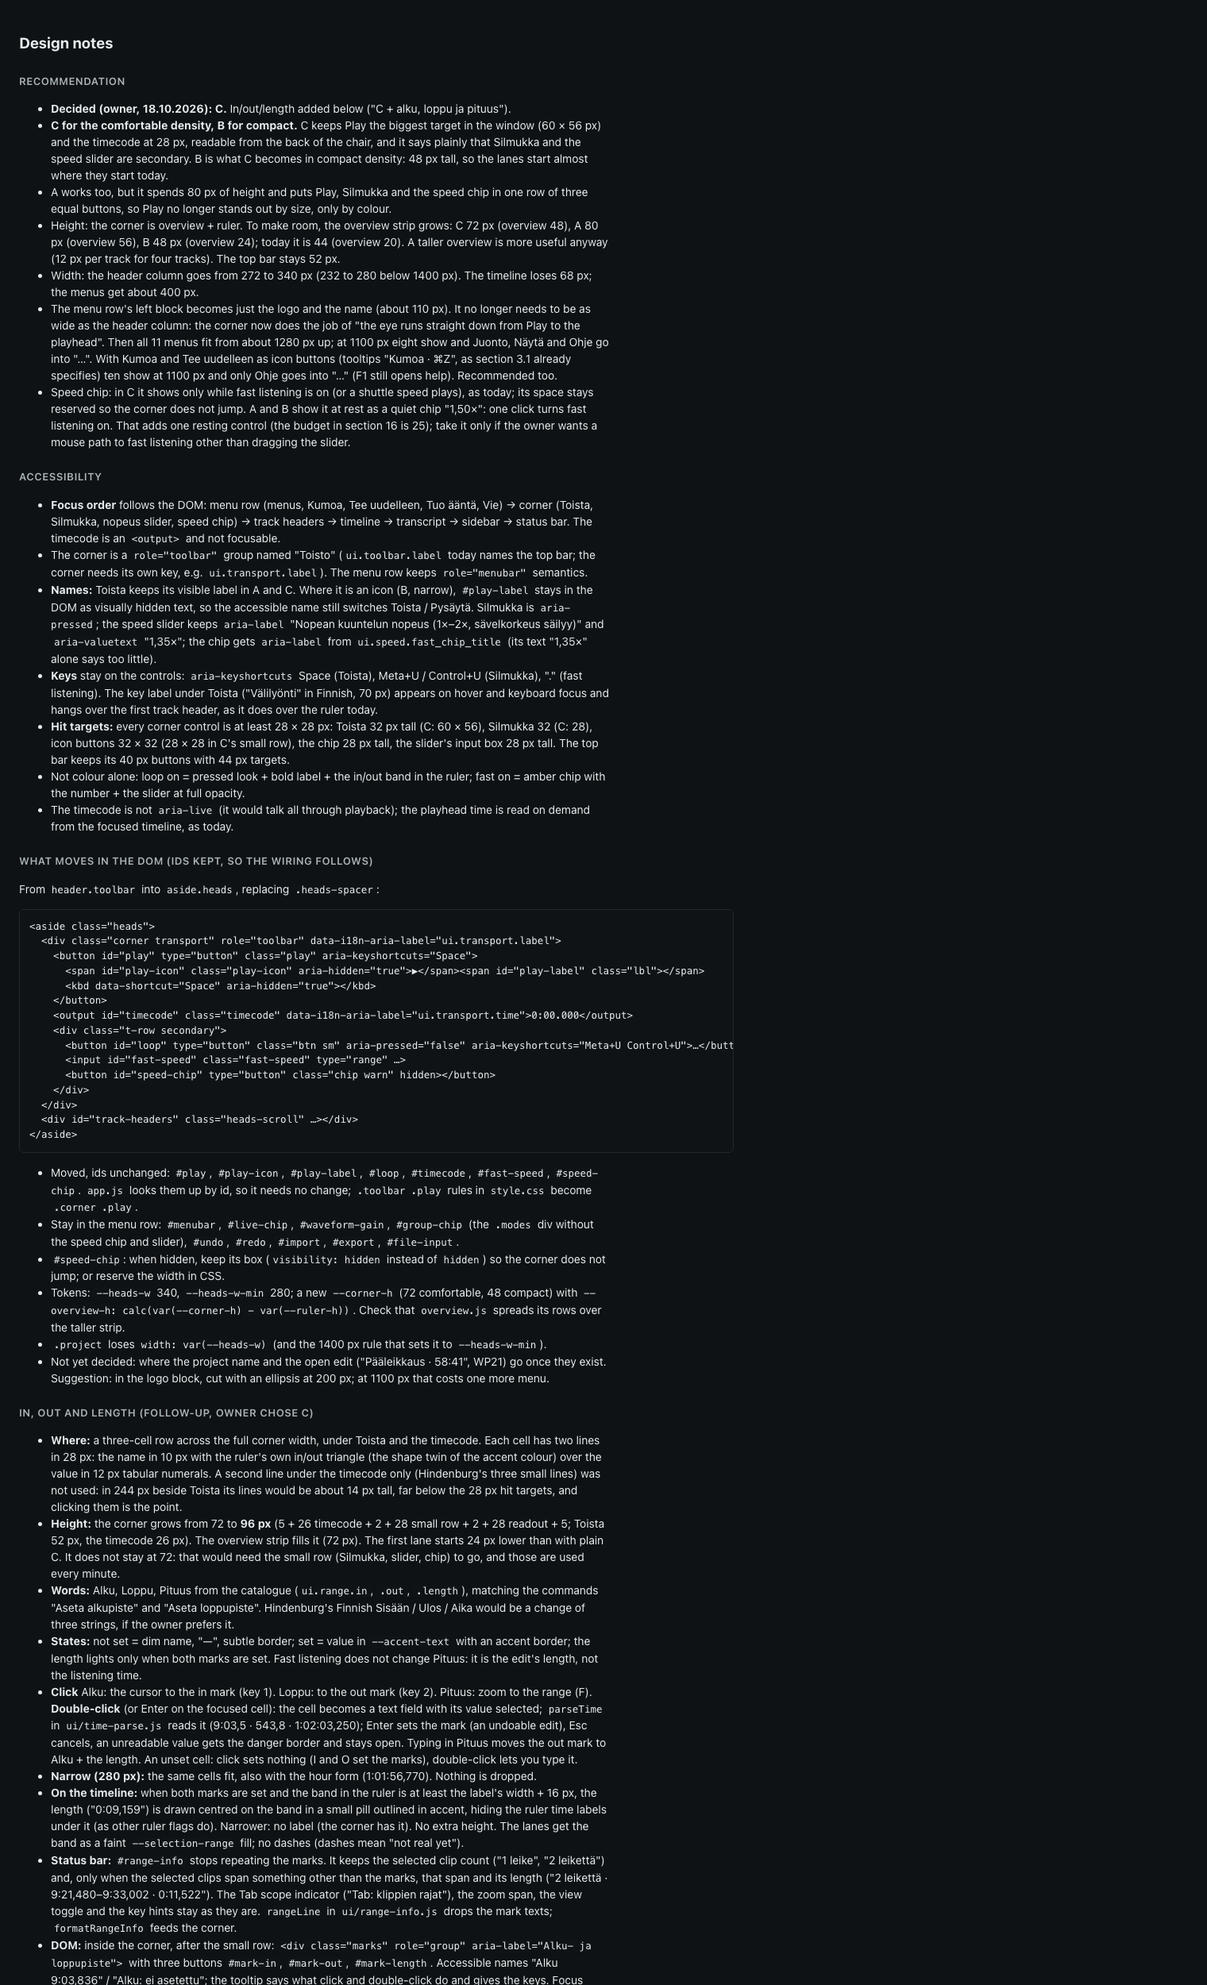
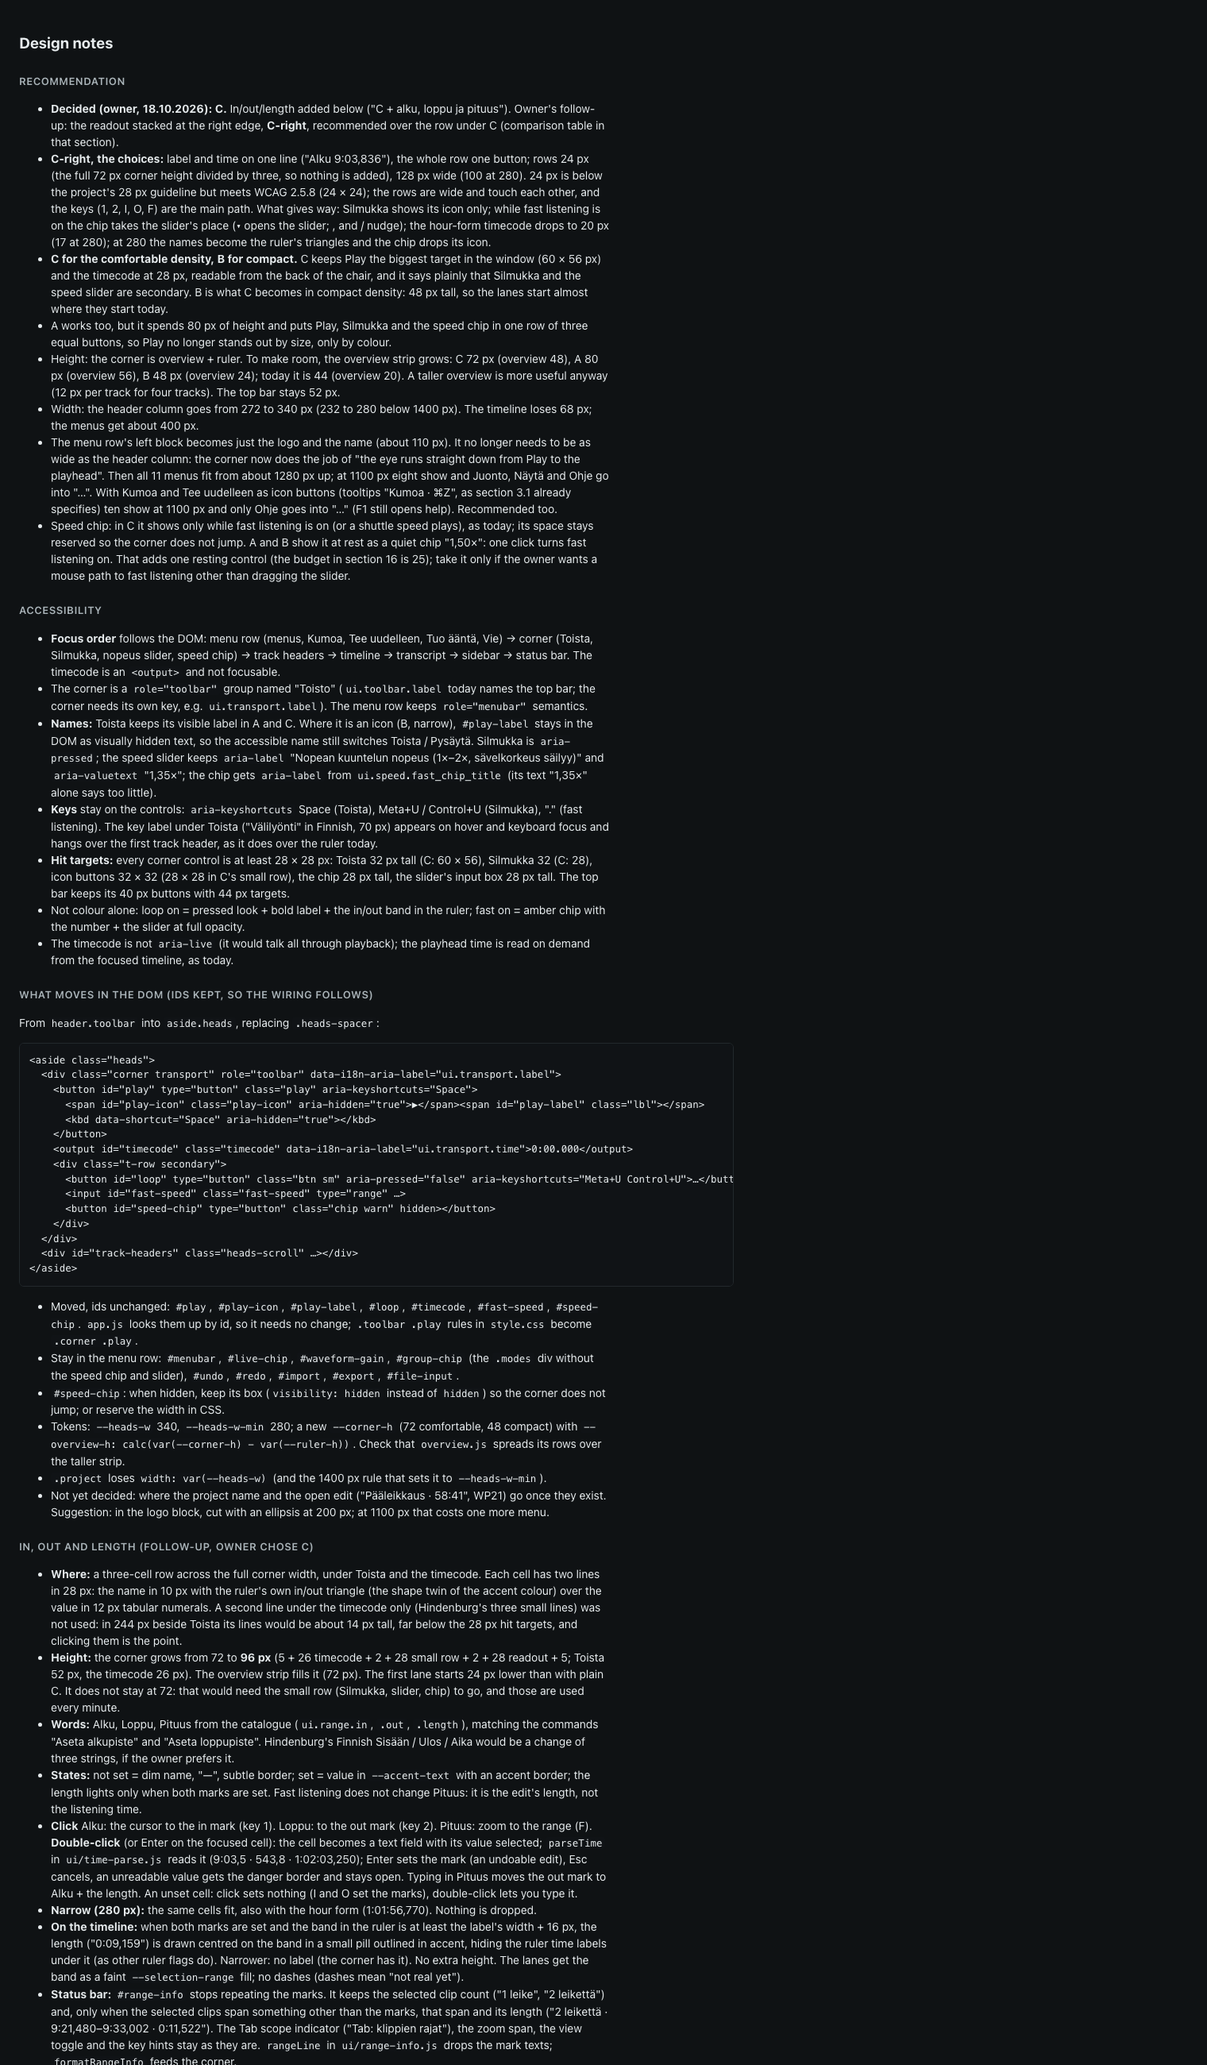
Mockups: C-right, in/out/length stacked at the corner's right edge (72 px)
Owner asked to keep the corner at 72 px: Alku, Loppu and Pituus stack in a
128 px column (100 px at 280) at the right edge, one 24 px row each, label and
time on one line, the whole row clickable, double-click to type. Silmukka goes
icon-only, the speed chip takes the slider's place while fast listening is on,
and the hour-form timecode shrinks. Same states as C, both window widths, and a
comparison table against the 96 px row-under layout; C-right recommended.

Claude-Session: https://claude.ai/code/session_01QmLRMKgETsKBVfe8fKUHaZ

Changed region(s): [[0.0309, 0.0, 0.5257, 1.0]]

diff --git a/docs/design/transport-corner/index.html b/docs/design/transport-corner/index.html
@@ -1067,6 +1067,39 @@ table.fit td.few { color: var(--warn-text); }
 .edit-tip { position: absolute; z-index: 6; top: calc(100% + 6px); left: 0; padding: 3px 8px; border-radius: var(--radius-sm); background: var(--surface-raised); box-shadow: var(--shadow-raised); font-size: var(--text-xs); color: var(--text-secondary); white-space: nowrap; }
 .statusbar .sel { color: var(--text); }
 
+/* -- C-right: in/out/length stacked at the corner's right edge, corner stays 72 px -- */
+.corner.CR { --rc-w: 128px; display: grid; grid-template-columns: auto minmax(0, 1fr) var(--rc-w); grid-template-rows: 1fr 1fr; column-gap: 10px; row-gap: 0; padding: 0 0 0 var(--space-5); align-items: center; }
+.corner.CR.narrow .chip.split .main svg { display: none; }
+.corner.CR.narrow { --rc-w: 100px; column-gap: 8px; padding-left: 10px; }
+.corner.CR .play.big { grid-row: 1 / 3; width: 56px; height: 56px; }
+.corner.CR.narrow .play.big { width: 50px; height: 52px; }
+.corner.CR .timecode { --tc: 26px; align-self: end; padding-bottom: 3px; overflow: hidden; }
+.corner.CR .timecode.hour { --tc: 20px; }
+.corner.CR.narrow .timecode { --tc: 20px; }
+.corner.CR.narrow .timecode.hour { --tc: 17px; }
+.corner.CR .t-row { grid-column: 2; align-self: start; padding-top: 3px; gap: var(--space-2); }
+.corner.CR .fast-speed { min-width: 40px; }
+.rcol { position: relative; grid-column: 3; grid-row: 1 / 3; align-self: stretch; display: grid; grid-template-rows: repeat(3, 1fr); border-left: 1px solid var(--border-subtle); background: var(--surface-sunken); }
+.mrow { position: relative; display: flex; align-items: center; justify-content: space-between; gap: 6px; min-width: 0; padding: 0 8px 0 9px; border: 0; border-bottom: 1px solid var(--border-subtle); background: transparent; color: var(--text-tertiary); font-size: 12px; font-variant-numeric: tabular-nums; white-space: nowrap; cursor: pointer; text-align: left; }
+.mrow:last-of-type { border-bottom: 0; }
+.mrow .k { display: inline-flex; align-items: center; gap: 4px; font-size: 11px; }
+.mrow .v { font-weight: var(--weight-strong); overflow: hidden; text-overflow: ellipsis; }
+.mrow svg.g { width: 7px; height: 9px; }
+.mrow svg.g[viewBox^="0 0 14"] { width: 10px; }
+.mrow.set { box-shadow: inset 2px 0 0 var(--accent); }
+.mrow.set .k { color: var(--text-secondary); }
+.mrow.set .v { color: var(--accent-text); }
+.mrow:hover { background: var(--surface-hover); }
+.mrow.editing { background: var(--input-bg); outline: var(--focus-width) solid var(--focus-ring); outline-offset: -2px; cursor: text; }
+.mrow input { width: 100%; min-width: 0; padding: 0; text-align: right; background: transparent; border: 0; outline: 0; color: var(--text); font: var(--weight-strong) var(--text-sm) / 1 var(--font-ui); font-variant-numeric: tabular-nums; }
+.corner.narrow .mrow { padding: 0 4px 0 6px; gap: 3px; }
+.rcol .edit-tip { left: auto; right: 0; }
+table.cmp { border-collapse: collapse; font-size: var(--text-sm); margin-top: 8px; max-width: 1100px; }
+table.cmp th, table.cmp td { border: 1px solid var(--border-subtle); padding: 6px 10px; text-align: left; vertical-align: top; }
+table.cmp th { color: var(--text-secondary); font-weight: var(--weight-strong); }
+table.cmp td.good { color: var(--ok-text); }
+table.cmp td.bad { color: var(--warn-text); }
+
 /* -- ruler + overview (the timeline's top) ------------------------------------- */
 .tl-top { position: relative; background: var(--ruler-bg); }
 .tl-top svg, .lanes svg { display: block; }
@@ -1130,12 +1163,13 @@ body[data-only] h2 { margin-top: 0; border-top: 0; }
   <header>
     <h1>Kuljetin kulmaan · transport in the corner</h1>
     <p class="lede">Mockups (owner, 18.10.2026). Toista, Silmukka, the timecode and fast listening leave the menu row and sit in the corner above the track headers, left of the ruler. The corner is 340 px wide (280 px in narrow windows). Undo, Redo, Import and Export stay top right, so the 11 menus get the width back. Dark theme, real tokens, Finnish labels.</p>
-    <nav><a href="#A">A · two rows</a><a href="#B">B · one row</a><a href="#C">C · big play</a><a href="#marks">C + in/out/length</a><a href="#menus">Menu row</a><a href="#notes">Design notes</a></nav>
+    <nav><a href="#A">A · two rows</a><a href="#B">B · one row</a><a href="#C">C · big play</a><a href="#marks">C + in/out/length</a><a href="#cright">C-right</a><a href="#menus">Menu row</a><a href="#notes">Design notes</a></nav>
   </header>
   <section id="A" data-sec="A"></section>
   <section id="B" data-sec="B"></section>
   <section id="C" data-sec="C"></section>
   <section id="marks" data-sec="marks"></section>
+  <section id="cright" data-sec="cright"></section>
   <section id="menus" data-sec="menus">
     <h2>Menu row: all 11 menus</h2>
     <p class="sub">The menus that fit are measured live in this page with the app's own rule (<code>fitMenus</code> in <code>ui/menu-model.js</code>: the menus in order, then "…" holding the rest).</p>
@@ -1155,7 +1189,8 @@ body[data-only] h2 { margin-top: 0; border-top: 0; }
     <h2>Design notes</h2>
     <h3>Recommendation</h3>
     <ul>
-      <li><b>Decided (owner, 18.10.2026): C.</b> In/out/length added below ("C + alku, loppu ja pituus").</li>
+      <li><b>Decided (owner, 18.10.2026): C.</b> In/out/length added below ("C + alku, loppu ja pituus"). Owner's follow-up: the readout stacked at the right edge, <b>C-right</b>, recommended over the row under C (comparison table in that section).</li>
+      <li><b>C-right, the choices:</b> label and time on one line ("Alku 9:03,836"), the whole row one button; rows 24 px (the full 72 px corner height divided by three, so nothing is added), 128 px wide (100 at 280). 24 px is below the project's 28 px guideline but meets WCAG 2.5.8 (24 × 24); the rows are wide and touch each other, and the keys (1, 2, I, O, F) are the main path. What gives way: Silmukka shows its icon only; while fast listening is on the chip takes the slider's place (▾ opens the slider; , and / nudge); the hour-form timecode drops to 20 px (17 at 280); at 280 the names become the ruler's triangles and the chip drops its icon.</li>
       <li><b>C for the comfortable density, B for compact.</b> C keeps Play the biggest target in the window (60 × 56 px) and the timecode at 28 px, readable from the back of the chair, and it says plainly that Silmukka and the speed slider are secondary. B is what C becomes in compact density: 48 px tall, so the lanes start almost where they start today.</li>
       <li>A works too, but it spends 80 px of height and puts Play, Silmukka and the speed chip in one row of three equal buttons, so Play no longer stands out by size, only by colour.</li>
       <li>Height: the corner is overview + ruler. To make room, the overview strip grows: C 72 px (overview 48), A 80 px (overview 56), B 48 px (overview 24); today it is 44 (overview 20). A taller overview is more useful anyway (12 px per track for four tracks). The top bar stays 52 px.</li>
@@ -1212,7 +1247,7 @@ body[data-only] h2 { margin-top: 0; border-top: 0; }
       <li><b>B (compact density):</b> B's single row has no room. The readout becomes a second row of the same cells at 22 px, with the 24 px target that compact uses (<code>--target-min</code> 24): B goes from 48 to 72 px. Or, if compact must stay 48, the readout is left out and the marks show only on the ruler band and in the status bar, as today.</li>
     </ul>
     <h3>Screenshots</h3>
-    <p><code>docs/design/transport-corner/variant-a.png</code>, <code>variant-b.png</code>, <code>variant-c.png</code>, <code>variant-c-marks.png</code>, <code>menu-row.png</code>, <code>notes.png</code> (headless Chrome, 1520 px wide).</p>
+    <p><code>docs/design/transport-corner/variant-a.png</code>, <code>variant-b.png</code>, <code>variant-c.png</code>, <code>variant-c-marks.png</code>, <code>variant-c-right.png</code>,<code>menu-row.png</code>, <code>notes.png</code> (headless Chrome, 1520 px wide).</p>
   </section>
 </main>
 
@@ -1246,6 +1281,7 @@ const VARIANTS = {
   A: { title: "A · Kaksi riviä", cornerH: 80, sum: "Row 1: Toista, Silmukka and the speed chip. Row 2: the timecode at 28 px and the speed slider. Corner 80 px tall (overview 56). Found here: the key label under Toista (\"Välilyönti\") covers the timecode (see Näppäimistöfokus), so in A the key would have to live in the tooltip only." },
   B: { title: "B · Yksi tiheä rivi", cornerH: 48, sum: "One row: Toista as an icon, the timecode at 22 px, Silmukka as an icon and a split speed chip whose ▾ opens the slider. Corner 48 px tall (overview 24), almost today's 44. Found here: at 280 px with an hour-long timecode the chip runs past the corner into the ruler (see Kapea), so B at 280 px needs the chip without its icon or a smaller timecode." },
   CM: { title: "C + alku, loppu ja pituus", cornerH: 96 },
+  CR: { title: "C-right", cornerH: 72 },
   C: { title: "C · Iso Toista ja aikakoodi", cornerH: 72, rec: true, sum: "Toista large on the left (60 × 56), the timecode at 28 px beside it, and under it a small row: Silmukka, the speed slider and the chip (only while active, space kept). Corner 72 px tall (overview 48)." },
 };
 
@@ -1263,7 +1299,7 @@ function playBtn(s, { iconOnly = false, big = false } = {}) {
 function loopBtn(s, { iconOnly = false, small = false } = {}) {
   return `<button type="button" data-id="loop" class="btn ${small ? "sm" : ""} ${iconOnly ? "iconly" : ""}" aria-pressed="${!!s.loop}" aria-keyshortcuts="Meta+U Control+U" title="${s.loop ? "Silmukka päällä" : "Silmukka"} · ⌘U">${ICON.loop}<span class="${iconOnly ? "visually-hidden" : ""}">Silmukka</span></button>`;
 }
-const timecode = (s) => `<output data-id="timecode" class="timecode" aria-label="Toistokohdan sijainti">${tc(s.time)}</output>`;
+const timecode = (s) => `<output data-id="timecode" class="timecode ${s.time[0].split(":").length > 2 ? "hour" : ""}" aria-label="Toistokohdan sijainti">${tc(s.time)}</output>`;
 function slider(s, width) {
   const v = s.fast ? s.speed : 1.5;
   return `<input data-id="fast-speed" class="fast-speed ${s.fast ? "on" : ""}" type="range" min="1" max="2" step="0.05" value="${v}" ${width ? `style="flex:none;width:${width}px"` : ""} aria-label="Nopean kuuntelun nopeus (1×–2×, sävelkorkeus säilyy)" aria-valuetext="${num(v)}×" title="Nopean kuuntelun nopeus (1×–2×, sävelkorkeus säilyy)" />`;
@@ -1292,6 +1328,9 @@ function corner(v, s, width) {
   if (v === "B") return `<div class="corner B ${n ? "narrow" : ""}" ${label} ${st}>
       <div class="t-row">${playBtn(s, { iconOnly: true })}${timecode(s)}${loopBtn(s, { iconOnly: true })}${chip(s, { rest: "quiet", split: true })}</div>
       ${s.fast && !n ? `<div class="pop" role="dialog" aria-label="Nopea kuuntelu"><b>Nopea kuuntelu</b><div class="t-row">${slider(s)}<span class="timecode" style="--tc:13px">${num(s.speed)}×</span></div><div class="meta">, hitaammin · / nopeammin · Alt+0 normaali</div></div>` : ""}</div>`;
+  if (v === "CR") return `<div class="corner C CR ${n ? "narrow" : ""}" ${label} ${st}>
+      ${playBtn(s, { big: true })}${timecode(s)}
+      <div class="t-row">${loopBtn(s, { small: true, iconOnly: true })}${s.fast ? chip(s, { split: true }) : slider(s)}</div>${rcol(s)}</div>`;
   const marks = v === "CM";
   return `<div class="corner C ${marks ? "with-marks" : ""} ${n ? "narrow" : ""}" ${label} ${st}>
       ${playBtn(s, { big: true })}${timecode(s)}
@@ -1304,6 +1343,20 @@ const GLYPH = {
   out: '<svg class="g" viewBox="0 0 10 12" aria-hidden="true"><path d="M9 1H2l7 8z" fill="currentColor"/><path d="M9 1v10" stroke="currentColor" stroke-width="1.5"/></svg>',
   len: '<svg class="g" viewBox="0 0 14 12" aria-hidden="true"><path d="M1 6h12M4 3 1 6l3 3M10 3l3 3-3 3" fill="none" stroke="currentColor" stroke-width="1.4" stroke-linecap="round" stroke-linejoin="round"/></svg>',
 };
+// C-right: the same three values stacked in a column at the corner's right edge.
+function rcol(s) {
+  const len = s.inT && s.outT ? s.lenT : null;
+  const row = (id, word, value, click) => {
+    const set = value != null;
+    const k = `<span class="k">${GLYPH[id]}${s.narrow ? `<span class="visually-hidden">${word}</span>` : word}</span>`;
+    if (s.edit === id) return `<span class="mrow editing" data-id="mark-${id}">${k}<input type="text" value="${value}" aria-label="${word}, kirjoita aika" spellcheck="false" /></span>`;
+    const tip = set ? `${word} ${value} · napsauta: ${click} · kaksoisnapsauta: kirjoita aika` : `${word}: ei asetettu · kaksoisnapsauta: kirjoita aika`;
+    return `<button type="button" data-id="mark-${id}" class="mrow ${set ? "set" : ""}" aria-label="${set ? `${word} ${value}` : `${word}: ei asetettu`}" title="${tip}">${k}<span class="v">${set ? value : "—"}</span></button>`;
+  };
+  return `<div class="rcol" role="group" aria-label="Alku- ja loppupiste">
+    ${row("in", "Alku", s.inT, "siirry alkuun (1)")}${row("out", "Loppu", s.outT, "siirry loppuun (2)")}${row("len", "Pituus", len, "zoomaa väliin (F)")}
+    ${s.edit ? `<span class="edit-tip">Enter asettaa · Esc peruu · esim. 9:03,5 tai 543,8</span>` : ""}</div>`;
+}
 function readout(s) {
   const len = s.inT && s.outT ? s.lenT : null;
   const cell = (id, word, glyph, value, click, typeHint) => {
@@ -1488,7 +1541,7 @@ function tile(v, s) {
   const width = s.narrow ? 280 : 340;
   const cornerH = VARIANTS[v].cornerH;
   let playX = 62, stubW = 150, opts = {};
-  if (v === "CM") {
+  if (v === "CM" || v === "CR") {
     // The stub shows about 19 s at 12 px/s, so the marks and the length pill are visible.
     stubW = 230;
     const base = s.base ?? 9 * 60 + 1, pps = 12, at = (sec) => (sec - base) * pps;
@@ -1503,7 +1556,7 @@ function tile(v, s) {
 
 // ---------- render ---------------------------------------------------------------------------
 for (const [v, d] of Object.entries(VARIANTS)) {
-  if (v === "CM") continue;
+  if (v === "CM" || v === "CR") continue;
   const sec = document.getElementById(v);
   sec.innerHTML = `<h2>${d.title} ${d.rec ? '<span class="tag rec">recommended</span>' : ""}</h2><p class="sub">${d.sum}</p>
     <h3>The window, 1440 px</h3><div class="scroll" data-fitbars>${windowFrame(v, STATES[0])}</div><p class="cap" data-report></p>
@@ -1529,6 +1582,31 @@ document.getElementById("marks").innerHTML = `<h2>C + alku, loppu ja pituus <spa
   <h3>The window, 1440 px: both marks set, one clip selected (the same span)</h3><div class="scroll" data-fitbars>${windowFrame("CM", { ...MSTATES[2], status: "1 leike" }, { start: 530, pps: 14 })}</div><p class="cap" data-report></p>
   <h3>States</h3><div class="tiles">${MSTATES.map((s) => tile("CM", s)).join("")}</div>
   <h3>The window, 1100 px (corner 280): range, fast listening on, a selection that differs from the marks; at this zoom the band is too narrow for the length label, so the ruler hides it (the corner still shows it)</h3><div class="scroll" data-fitbars>${windowFrame("CM", { ...MSTATES[3], narrow: true, status: "2 leikettä · 9:21,480–9:33,002 · 0:11,522" }, { W: 1100, headsW: 280, sideW: 280 })}</div><p class="cap" data-report></p>`;
+
+// C-right (owner, 18.10.2026): the readout stacked at the right edge; the corner stays 72 px.
+const RSTATES = [
+  MSTATES[0], MSTATES[1], MSTATES[2], MSTATES[3], MSTATES[4],
+  { ...MSTATES[5], title: "Kapea, 280 px", note: "names become the ruler's triangles (kept for screen readers)" },
+  { ...MSTATES[6], note: "hour form: the timecode drops to 17 px; the chip sits where the slider was" },
+];
+document.getElementById("cright").innerHTML = `<h2>C-right · alku, loppu ja pituus oikeassa reunassa <span class="tag rec">recommended</span></h2>
+  <p class="sub">The three values stacked in a column at the corner's right edge (128 px; 100 px at 280), in the space right of the timecode and the slider. One line per row, "Alku 9:03,836", the whole row clickable; click jumps (1, 2) or zooms (F), double-click types an exact time. The column runs the full corner height, so the rows are 24 px each and <b>the corner stays 72 px</b>. To make room, Silmukka becomes an icon button (name in tooltip and accessible name) and, while fast listening is on, the speed chip takes the slider's place (its ▾ opens the slider).</p>
+  <h3>The window, 1440 px: both marks set, one clip selected</h3><div class="scroll" data-fitbars>${windowFrame("CR", { ...MSTATES[2], status: "1 leike" }, { start: 530, pps: 14 })}</div><p class="cap" data-report></p>
+  <h3>States</h3><div class="tiles">${RSTATES.map((s) => tile("CR", s)).join("")}</div>
+  <h3>The window, 1100 px (corner 280): range, fast listening on</h3><div class="scroll" data-fitbars>${windowFrame("CR", { ...MSTATES[3], narrow: true, status: "2 leikettä · 9:21,480–9:33,002 · 0:11,522" }, { W: 1100, headsW: 280, sideW: 280 })}</div><p class="cap" data-report></p>
+  <h3>C (row under, 96 px) vs C-right (column, 72 px)</h3>
+  <table class="cmp">
+    <tr><th></th><th>C + row under</th><th>C-right</th></tr>
+    <tr><th>Corner height</th><td class="bad">96 px (overview 72); the first lane 24 px lower than plain C</td><td class="good">72 px (overview 48), same as plain C</td></tr>
+    <tr><th>Readout targets</th><td class="good">3 cells, about 100 × 28 px (82 × 28 at 280)</td><td>3 rows, 128 × 24 px (100 × 24 at 280): below the project's 28 px, at the WCAG 2.5.8 minimum of 24 × 24. Rows touch (1 px rule between), so a near miss lands on a neighbour, not on nothing</td></tr>
+    <tr><th>Toista</th><td>60 × 52 px</td><td>56 × 56 px (50 × 52 at 280)</td></tr>
+    <tr><th>Silmukka</th><td class="good">label shown ("Silmukka", 28 px tall)</td><td>icon only, 28 × 28 px; name in tooltip and accessible name</td></tr>
+    <tr><th>Speed slider</th><td class="good">always shown, about 80 px</td><td>about 80 px (60 at 280) while fast listening is off; while it is on, the chip sits in its place and its ▾ opens the slider; , and / still nudge</td></tr>
+    <tr><th>Timecode</th><td class="good">26 px (22 at 280), also the hour form</td><td>26 px; the hour form drops to 20 px (17 at 280)</td></tr>
+    <tr><th>Names at 280 px</th><td class="good">Alku / Loppu / Pituus written</td><td>the ruler's triangles and ↔; the words stay in the accessible names and tooltips</td></tr>
+    <tr><th>Fits at 280 px with an hour-long timecode and the chip</th><td class="good">yes, nothing given up</td><td>yes, with the smaller timecode and the chip in the slider's place</td></tr>
+  </table>
+  <p class="cap"><b>Recommendation: C-right.</b> Height matters more here than four pixels of target: the corner sits above every track, and 24 px rows that are 128 px wide are easy to hit with a mouse (the main way in is the keyboard anyway: 1, 2, I, O, F). C with the row under stays the fallback if the owner finds the 24 px rows too small in use.</p>`;
 
 const bars = [
   ["bar-today", 1440, { today: true }],
